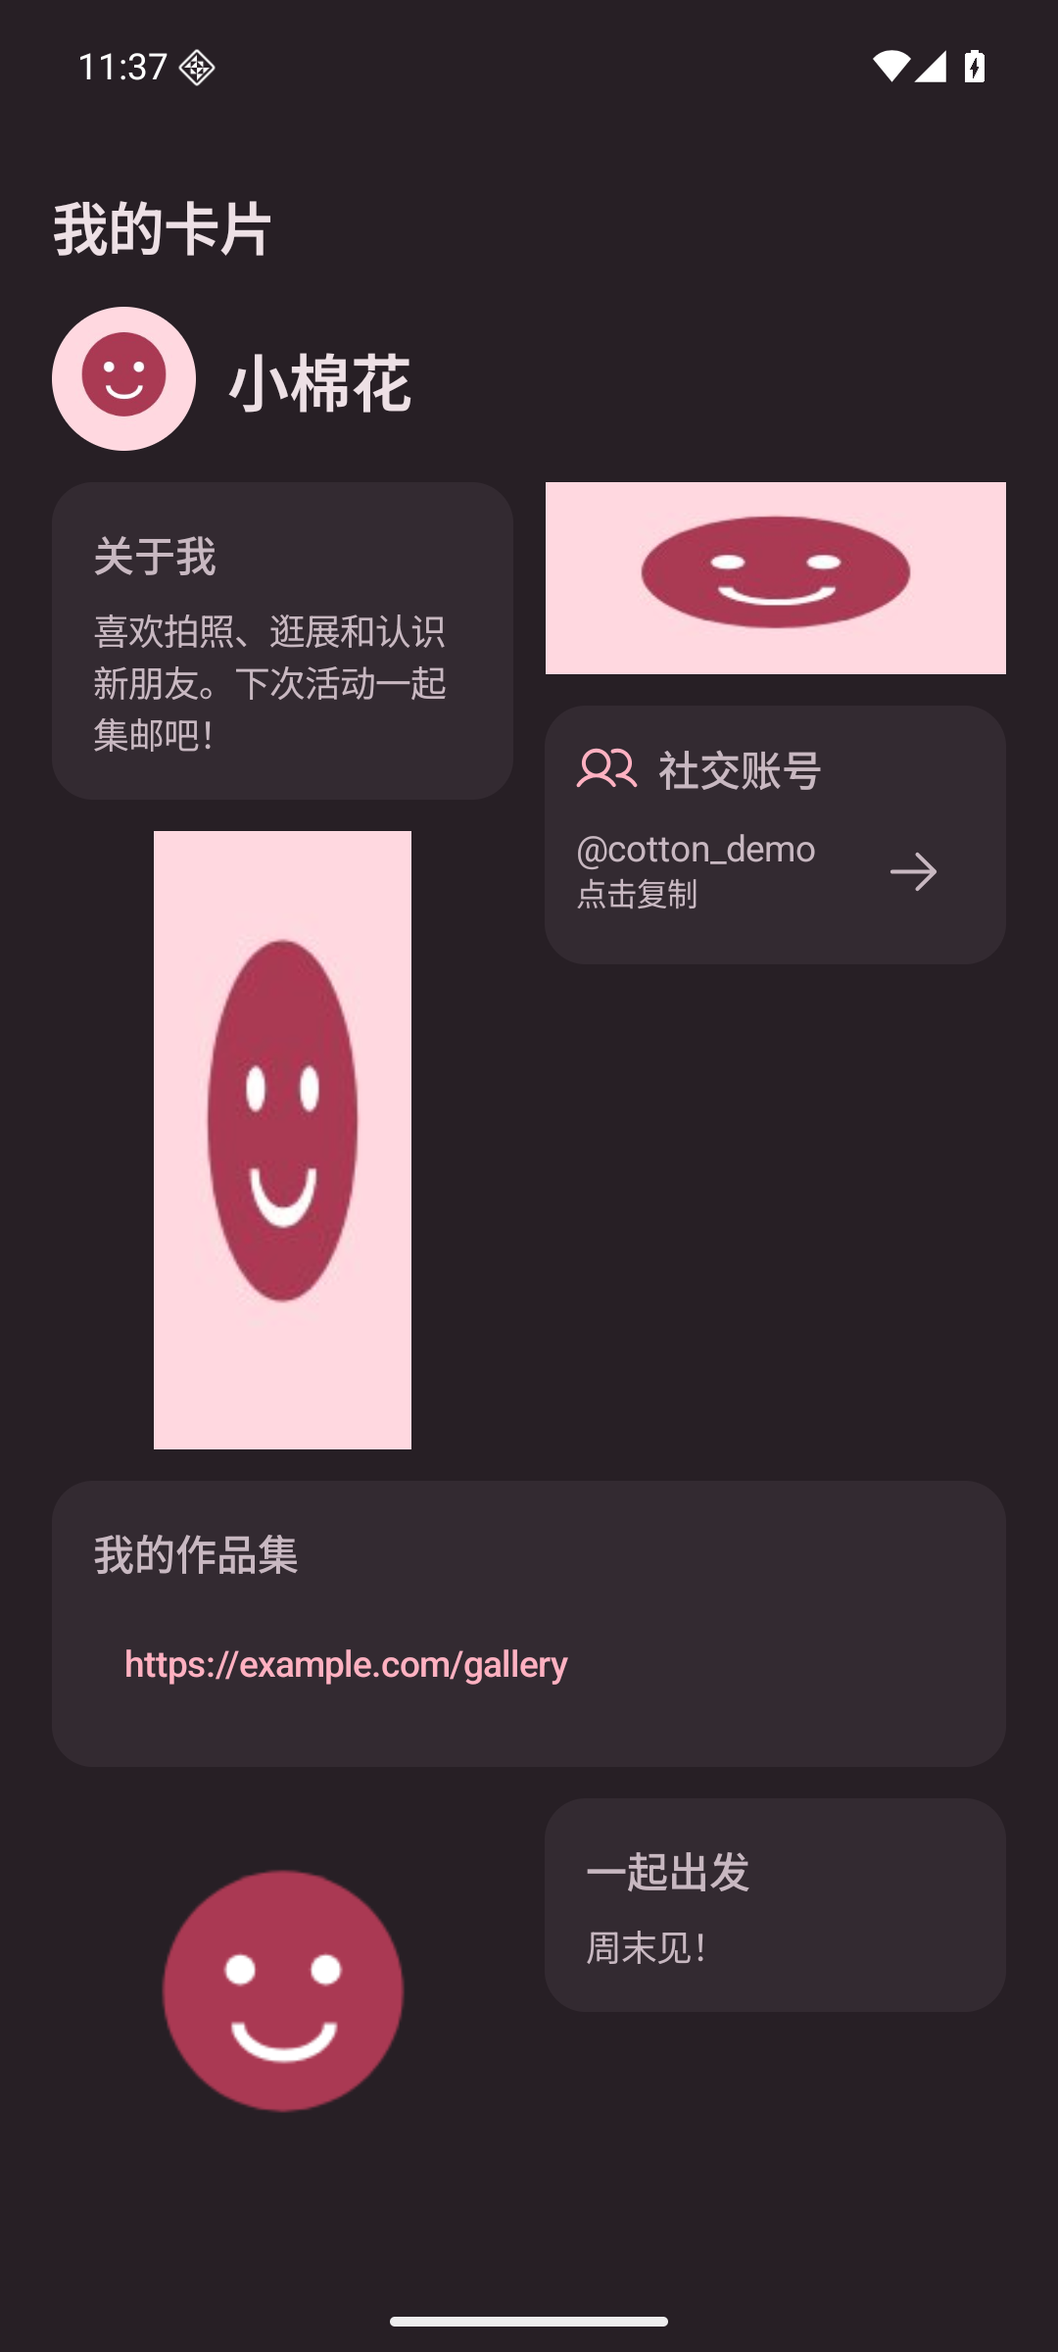
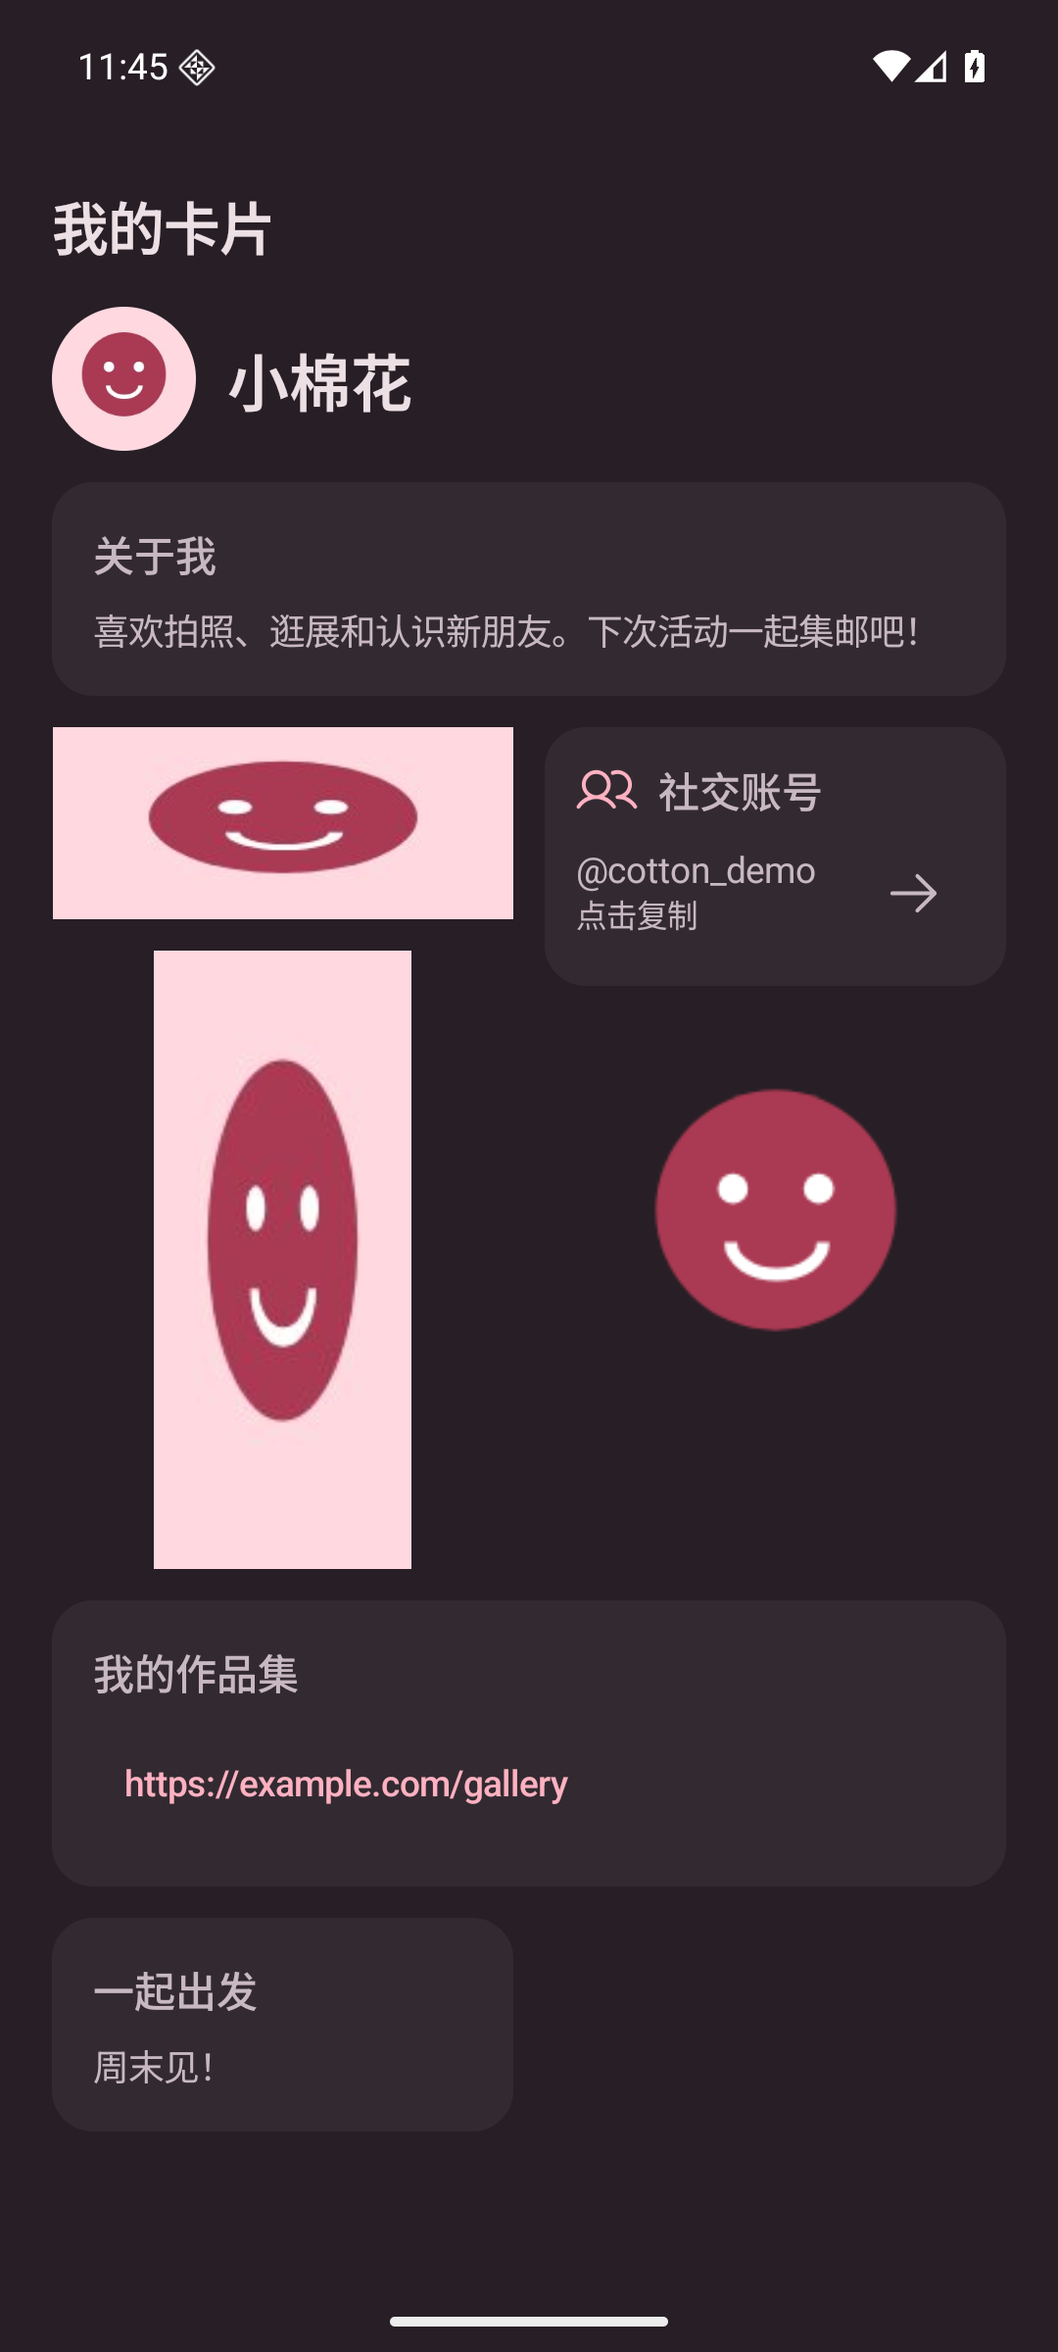
fix: 自我介绍按内容扩宽并回填卡片空位

diff --git a/app/src/main/kotlin/app/pengwa/ui/CardMasonry.kt b/app/src/main/kotlin/app/pengwa/ui/CardMasonry.kt
@@ -1,40 +1,54 @@
 package app.pengwa.ui
 
 import androidx.compose.foundation.layout.fillMaxWidth
+import androidx.compose.material3.MaterialTheme
 import androidx.compose.runtime.Composable
 import androidx.compose.ui.Modifier
 import androidx.compose.ui.layout.Layout
+import androidx.compose.ui.text.rememberTextMeasurer
 import androidx.compose.ui.unit.Constraints
 import androidx.compose.ui.unit.constrainHeight
 import androidx.compose.ui.unit.dp
 import app.pengwa.identity.BlockType
+import app.pengwa.identity.CardBlock
 
-/** At most twelve blocks: measure once, then place each next block in the lowest available column group.
+/** At most twelve blocks, measured once and packed into the earliest fitting gaps.
  * Own no scroll container so cards also work inside dialogs and the editor's scrolling preview.
  */
 @Composable
-internal fun CardMasonry(types: List<BlockType>, content: @Composable () -> Unit) {
+internal fun CardMasonry(blocks: List<CardBlock>, content: @Composable () -> Unit) {
+    val textMeasurer = rememberTextMeasurer()
+    val bodyStyle = MaterialTheme.typography.bodyMedium
+    val titleStyle = MaterialTheme.typography.titleSmall
     Layout(content = content, modifier = Modifier.fillMaxWidth()) { measurables, constraints ->
         val gap = 12.dp.roundToPx()
         val minColumnWidth = (128.dp.toPx() * fontScale.coerceAtLeast(1f)).toInt()
         val columns = ((constraints.maxWidth + gap) / (minColumnWidth + gap)).coerceIn(1, 3)
         val columnWidth = ((constraints.maxWidth - gap * (columns - 1)) / columns).coerceAtLeast(1)
-        val heights = IntArray(columns)
-        val placements = measurables.mapIndexed { index, measurable ->
-            // Links get a horizontal two-cell footprint; other content keeps one cell.
-            // Keep the grid independent of item count so even a lone social block stays small.
-            val span = (if (types.getOrNull(index) == BlockType.Link) 2 else 1).coerceAtMost(columns)
-            val column = (0..columns - span).minBy { start ->
-                (start until start + span).maxOf { heights[it] }
+        val textConstraints = Constraints(maxWidth = (columnWidth - 32.dp.roundToPx()).coerceAtLeast(1))
+        val spans = measurables.indices.map { index ->
+            val block = blocks.getOrNull(index)
+            val preferred = when (block?.type) {
+                BlockType.Link -> 2
+                BlockType.Text -> {
+                    // A paragraph needs room to read; short notes can stay compact.
+                    val bodyLines = textMeasurer.measure(block.text, style = bodyStyle, constraints = textConstraints).lineCount
+                    val titleLines = textMeasurer.measure(block.title, style = titleStyle, constraints = textConstraints).lineCount
+                    if (bodyLines >= 3 || titleLines >= 2) 2 else 1
+                }
+                else -> 1
             }
-            val y = (column until column + span).maxOf { heights[it] }
-            val placeable = measurable.measure(Constraints.fixedWidth(columnWidth * span + gap * (span - 1)))
-            for (covered in column until column + span) heights[covered] = y + placeable.height + gap
-            Triple(placeable, column * (columnWidth + gap), y)
+            preferred.coerceAtMost(columns)
         }
-        val height = ((heights.maxOrNull() ?: 0) - gap).coerceAtLeast(0)
+        val placeables = measurables.mapIndexed { index, measurable ->
+            measurable.measure(Constraints.fixedWidth(columnWidth * spans[index] + gap * (spans[index] - 1)))
+        }
+        val placements = packMasonry(placeables.mapIndexed { index, item -> MasonryItem(spans[index], item.height) }, columns, gap)
+        val height = placements.maxOfOrNull { it.bottom } ?: 0
         layout(constraints.maxWidth, constraints.constrainHeight(height)) {
-            placements.forEach { (placeable, x, y) -> placeable.placeRelative(x, y) }
+            placements.forEachIndexed { index, position ->
+                placeables[index].placeRelative(position.column * (columnWidth + gap), position.top)
+            }
         }
     }
 }

diff --git a/app/src/test/kotlin/app/pengwa/ui/MasonryPackingTest.kt b/app/src/test/kotlin/app/pengwa/ui/MasonryPackingTest.kt
@@ -1,0 +1,35 @@
+package app.pengwa.ui
+
+import kotlin.test.*
+
+class MasonryPackingTest {
+    @Test fun `a later small block fills the hole beside text above a full width link`() {
+        val positions = packMasonry(listOf(MasonryItem(1, 120), MasonryItem(2, 88), MasonryItem(1, 96)), 2, 12)
+        assertEquals(MasonryPlacement(0, 1, 0, 120), positions[0])
+        assertEquals(MasonryPlacement(0, 2, 132, 88), positions[1])
+        assertEquals(MasonryPlacement(1, 1, 0, 96), positions[2])
+    }
+
+    @Test fun `mixed spans never overlap and preserve gaps in every column`() {
+        val items = listOf(120, 74, 100, 240, 88, 160, 64, 120, 80, 48, 180, 100)
+            .mapIndexed { index, height -> MasonryItem(if (index % 3 == 1) 2 else 1, height) }
+        for (columns in 1..3) {
+            val positions = packMasonry(items, columns, 12)
+            assertEquals(items.size, positions.size)
+            positions.forEachIndexed { index, a ->
+                assertTrue(a.column >= 0 && a.column + a.span <= columns)
+                assertEquals(items[index].height, a.height)
+                for (b in positions.take(index)) {
+                    val separateColumns = a.column + a.span <= b.column || b.column + b.span <= a.column
+                    assertTrue(separateColumns || a.bottom + 12 <= b.top || b.bottom + 12 <= a.top)
+                }
+            }
+        }
+    }
+
+    @Test fun `one column clamps spans and empty cards have no placements`() {
+        assertTrue(packMasonry(emptyList(), 2, 12).isEmpty())
+        assertEquals(listOf(MasonryPlacement(0, 1, 0, 60), MasonryPlacement(0, 1, 72, 100)),
+            packMasonry(listOf(MasonryItem(2, 60), MasonryItem(1, 100)), 1, 12))
+    }
+}

diff --git a/app/src/main/kotlin/app/pengwa/ui/MasonryPacking.kt b/app/src/main/kotlin/app/pengwa/ui/MasonryPacking.kt
@@ -1,0 +1,27 @@
+package app.pengwa.ui
+
+internal data class MasonryItem(val span: Int, val height: Int)
+internal data class MasonryPlacement(val column: Int, val span: Int, val top: Int, val height: Int) {
+    val bottom: Int get() = top + height
+}
+
+/** Pack into the first fitting gap, including holes above an earlier spanning item. */
+internal fun packMasonry(items: List<MasonryItem>, columns: Int, gap: Int): List<MasonryPlacement> {
+    require(columns > 0 && gap >= 0)
+    val placed = mutableListOf<MasonryPlacement>()
+    for (item in items) {
+        require(item.height >= 0)
+        val span = item.span.coerceIn(1, columns)
+        val tops = (listOf(0) + placed.map { it.bottom + gap }).distinct().sorted()
+        val position = tops.firstNotNullOf { top ->
+            (0..columns - span).firstOrNull { column ->
+                placed.none { other ->
+                    column < other.column + other.span && other.column < column + span &&
+                        top < other.bottom + gap && other.top < top + item.height + gap
+                }
+            }?.let { column -> MasonryPlacement(column, span, top, item.height) }
+        }
+        placed += position
+    }
+    return placed
+}

diff --git a/app/src/main/kotlin/app/pengwa/ui/UserCard.kt b/app/src/main/kotlin/app/pengwa/ui/UserCard.kt
@@ -46,7 +46,7 @@ internal fun UserCardContent(identity: Identity) {
             CardAvatar(identity)
             Text(identity.displayName, style = MaterialTheme.typography.titleLarge)
         }
-        CardMasonry(identity.card.blocks.map { it.type }) {
+        CardMasonry(identity.card.blocks) {
             identity.card.blocks.forEach { block ->
                 if (block.type == BlockType.Image) {
                     CardImage(block.image, block.title.ifBlank { "卡片图片" })

diff --git a/docs/screenshots/card-packing/README.md b/docs/screenshots/card-packing/README.md
@@ -1,0 +1,50 @@
+# 自我介绍宽度与空位回填
+
+自我介绍过去使用一格，后面的两格链接会截断这一行，后续小块无法利用旁边的空位。
+现在同时调整文字默认占格和瀑布流放置：
+
+- 按当前字体和实际单格正文宽度测量文字。正文达到三行或标题达到两行时默认跨两格，短文字保持一格；链接两格，社交与图片一格。
+- 后续小块可回填前面跨列块上方放得下的空位。跨列块与其他块之间保留 12 dp 间距，互不重叠；放不下时继续向下排。
+- 窄屏／大字体仍回退为一列。图片比例与透明轮廓不变。编辑操作和保存／传输顺序不变，视觉位置允许回填。
+
+## 环境和复现
+
+Android Emulator `sdk_gphone64_x86_64` / AVD `PengWaIcon`，Android 16 / API 36。普通屏 1080×2400，density 420，字体 1.0；窄屏 840×1680，字体 1.5；宽屏 1600×2560，字体 1.0。全部为运行中的 Debug APK，通过 adb screencap 截图。姓名、UUID、账号、链接与图片均为合成测试数据。
+
+```sh
+adb -s emulator-5554 shell am force-stop app.pengwa.debug
+adb -s emulator-5554 shell am start -n app.pengwa.debug/app.pengwa.ui.UiPreviewActivity --es screen card
+# 收到的卡片：card-received；编辑预览：card-editor，点击“预览”
+# 混合内容：card-masonry；详情：card-masonry-received；编辑预览：card-masonry-editor
+adb -s emulator-5554 shell cmd uimode night yes # no 恢复浅色
+# 窄屏：wm size 840x1680；settings put system font_scale 1.5
+# 宽屏：wm size 1600x2560；settings put system font_scale 1.0
+# 最后恢复：wm size reset；settings put system font_scale 1.0
+```
+
+## 同场景前后截图
+
+| 页面／状态 | 变更前 | 变更后 |
+| --- | --- | --- |
+| 卡片／浅色 | ![](card-before-light.png) | ![](card-after-light.png) |
+| 卡片／深色 | ![](card-before-dark.png) | ![](card-after-dark.png) |
+| 收到的卡片／浅色 | ![](received-before-light.png) | ![](received-after-light.png) |
+| 收到的卡片／深色 | ![](received-before-dark.png) | ![](received-after-dark.png) |
+| 编辑预览／浅色 | ![](editor-preview-before-light.png) | ![](editor-preview-after-light.png) |
+| 编辑预览／深色 | ![](editor-preview-before-dark.png) | ![](editor-preview-after-dark.png) |
+| 混合内容／浅色 | ![](mixed-before-light.png) | ![](mixed-after-light.png) |
+| 混合内容／深色 | ![](mixed-before-dark.png) | ![](mixed-after-dark.png) |
+| 混合详情／浅色 | ![](mixed-received-before-light.png) | ![](mixed-received-after-light.png) |
+| 混合详情／深色 | ![](mixed-received-before-dark.png) | ![](mixed-received-after-dark.png) |
+| 混合编辑预览／浅色 | ![](mixed-editor-preview-before-light.png) | ![](mixed-editor-preview-after-light.png) |
+| 混合编辑预览／深色 | ![](mixed-editor-preview-before-dark.png) | ![](mixed-editor-preview-after-dark.png) |
+
+窄屏大字体：[卡片](card-narrow-large-font.png)、[混合内容](mixed-narrow-large-font.png)。
+宽屏三列：[卡片](card-wide.png)、[混合内容](mixed-wide.png)。
+
+## 验证
+
+- 在仅包含本 PR 改动的独立目录执行 `testDebugUnitTest assembleDebug lintDebug` 成功，186 项单元测试通过，Lint 无 error。
+- 新增三个布局测试覆盖：一格文字旁空位可被后续小块回填、1–3 列的混合跨度不重叠且保留间距、单列跨度回退和空卡片。
+- 模拟器核对卡片、详情与编辑预览中的自我介绍横跨两格，深浅主题、窄屏大字体和宽屏布局。
+- 蓝牙、NFC 和扫码双真机链路仍未验证；本次不改变保存与传输格式。

diff --git a/docs/protocol.md b/docs/protocol.md
@@ -50,7 +50,7 @@ NFC 和新版二维码共用 `exchange/PeerDiscovery.kt`：
 - 所有社媒块均可复制账号；显式填写的 HTTP(S) 分享链接优先。未填写链接时，bilibili 数字 UID、X 和 Telegram 的安全用户名可生成访问链接（支持前导 @）；QQ、微信、小红书只按原账号展示和复制，不根据账号猜测主页地址。不会验证账号是否真实存在。
 - 系统图片选择器导入时先缩小再重新编码，移除原始元数据；小图有 alpha 通道时使用 PNG 保留透明轮廓，其余使用 JPEG。头像最长边 192 像素，小图最长边 384 像素；单图压缩后最多 12 KiB；超限时继续等比例缩小。
 - 接收端校验 Base64、JPEG 或 PNG 首尾标志和体积；展示前检查图像尺寸不超过 1024×1024，不能解码时显示占位提示。
-- 卡片内容按顺序放入当前较低的连续列组，使用 1–3 列自适应瀑布流；链接默认横跨两格，社交、文字和图片默认一格，随可用宽度和字体比例减少列数。单个社交块仍保持一格，链接在列数不足时回退到一列。默认占格只影响展示，不新增传输字段。展示与编辑预览共用布局，编辑操作仍为有序列表。
+- 卡片内容依次放入可容纳该块的最靠上的空位，允许后续小块回填跨列块上方空洞，使用 1–3 列自适应瀑布流；链接默认横跨两格，社交和图片默认一格，文字正文在单格下达到三行或标题达到两行时扩为两格，短文字保持一格，随可用宽度和字体比例减少列数。单个社交块仍保持一格，链接在列数不足时回退到一列。默认占格只影响展示，不新增传输字段。展示与编辑预览共用布局，编辑操作仍为有序列表。
 - 小图块在预览和收到的卡片中只展示图片，不展示标题、卡片底框或圆角裁剪；编辑区不提供小图标题输入。横图、竖图和透明不规则图按原比例缩放到可用空间。旧标题保留作无障碍描述，不改变原数据格式。
 - 整张编码后的卡片上限 96 KiB；超限保存失败，编辑草稿保留。
 

diff --git a/docs/screenshots/card-masonry/README.md b/docs/screenshots/card-masonry/README.md
@@ -1,6 +1,6 @@
 # 自适应瀑布流卡片
 
-卡片内容区按内容高度错落排布：依次把块放入当前较低的连续列组，保持各块自己的高度。链接默认横跨两格，社交、文字和图片默认一格。
+卡片内容区按内容高度错落排布：依次把块放入最靠上的合适空位，允许后续小块回填跨列块上方空洞，保持各块自己的高度。链接默认横跨两格，社交和图片默认一格，段落文字按单格下的实际行数扩为两格，短文字一格。
 文字、链接、社媒与图片共用同一布局；小图继续只有图片，不增加标题、底框或裁切。
 
 普通手机使用两列，宽屏最多三列；窄屏或大字体时减少到一列；单个社交块仍保持一格，单个链接默认占两格，列数不足时自动回退。
@@ -50,7 +50,7 @@ adb shell settings put system font_scale 1.0
 
 ## 验证
 
-- `testDebugUnitTest assembleDebug lintDebug` 成功，183 项现有单元测试通过，Lint 无 error。
+- `testDebugUnitTest assembleDebug lintDebug` 成功，186 项现有单元测试通过，Lint 无 error。
 - 模拟器检查普通屏的两列错落布局、窄屏大字体的单列回退和宽屏三列布局。
 - 卡片页、详情弹窗、编辑页预览均运行正常，沿用外层滚动，不产生嵌套无限高度错误。
 - 图片维持原比例和透明轮廓，内容块排序与传输格式不变。

diff --git a/README.md b/README.md
@@ -11,7 +11,7 @@
 
 ## 当前开发版本：可自定义用户卡片
 
-用户卡片新增头像，以及可添加、编辑、删除、排序的文字、链接、社媒和小图内容块，支持保存和预览。社媒内置 QQ、微信、bilibili、小红书、X、Telegram 及平台图标，支持复制账号和打开主页。内容区采用自适应瀑布流，链接默认横跨两格，社交为紧凑一格，文字和小图按内容高度错落排布，窄屏自动回退；小图保留原始比例和透明轮廓，不加标题或底框。
+用户卡片新增头像，以及可添加、编辑、删除、排序的文字、链接、社媒和小图内容块，支持保存和预览。社媒内置 QQ、微信、bilibili、小红书、X、Telegram 及平台图标，支持复制账号和打开主页。内容区采用自适应瀑布流，链接默认横跨两格，社交为紧凑一格，段落文字按实际行数扩为两格，短文字与小图按内容高度错落排布，小块可回填空位，窄屏自动回退；小图保留原始比例和透明轮廓，不加标题或底框。
 **扫码、附近蓝牙列表和 NFC 碰一碰都只负责识别对方，完整卡片统一通过蓝牙 BLE 分块交换。**
 只有完整接收并确认后才入集邮册；二维码与 NFC 识别本身不再导入名片。扫码后需对方确认蓝牙申请；NFC 双向识别可短时自动确认对应设备。
 

diff --git a/docs/screenshots/block-density/README.md b/docs/screenshots/block-density/README.md
@@ -1,5 +1,7 @@
 # 按内容密度设置默认占格
 
+本页记录默认占格初版；当前段落自适应与空位回填见 [排布修正](../card-packing/README.md)。
+
 链接横跨相邻两格，社交账号为紧凑一格；文字与图片为一格，按内容高度排布。列组放在当前最低的可用位置，覆盖的列共同更新高度，避免跨列重叠。网格列数只取决于可用宽度与字体大小，因此只有一个社交块也不会被拉成整行。窄屏或大字体空间不足时，链接自动回退到一列。
 
 社交块点击即可复制完整账号，显示“已复制”反馈；有主页链接时使用独立箭头入口。长账号最多显示两行，复制与无障碍描述保留完整账号。小图继续保持图片原比例及透明轮廓。

diff --git a/docs/screenshots/custom-card/README.md b/docs/screenshots/custom-card/README.md
@@ -106,3 +106,5 @@ bash gradlew testDebugUnitTest assembleDebug lintDebug --console=plain
 六个平台、内置图标和账号操作见 [社交账号截图](../social-platforms/README.md)。
 
 按内容密度设置默认占格的前后对比见 [默认占格截图](../block-density/README.md)。
+
+自我介绍扩宽与空位回填的运行对比见 [排布修正截图](../card-packing/README.md)。
